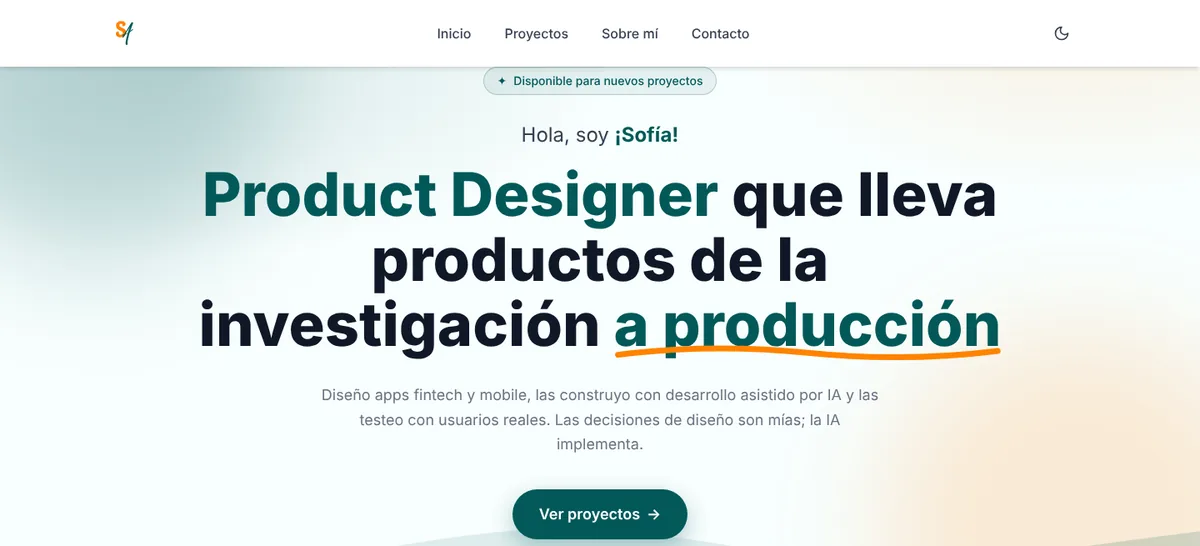
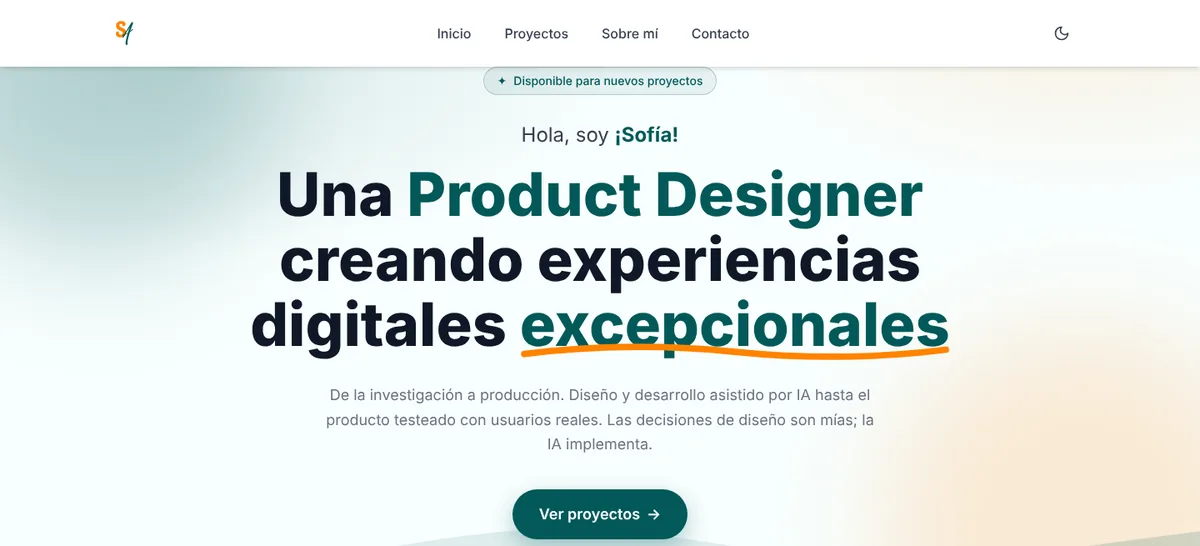
Restaurar titular original del hero y la sección de la cita
- Titular: 'Una Product Designer creando experiencias digitales excepcionales'
  con su descripción original
- Vuelve la sección Exploration (cita) entre Sobre mí y Habilidades
- Miniatura del caso Portfolio regenerada con el hero restaurado

Claude-Session: https://claude.ai/code/session_01Q4JWQmucjosvLvKJoTHqYK

Changed region(s): [[0.1542, 0.3114, 0.8325, 0.685], [0.2775, 0.7161, 0.74, 0.7784], [0.4625, 0.8095, 0.555, 0.8407]]

diff --git a/src/app/components/Hero.tsx b/src/app/components/Hero.tsx
@@ -171,11 +171,12 @@ export function Hero() {
           animate={{ opacity: 1, y: 0 }}
           transition={{ delay: 0.18, duration: 0.9, ease: [0.22, 1, 0.36, 1] }}
         >
+          Una{" "}
           <span className="text-[#025959] dark:text-[#4ecfcf]">Product Designer</span>{" "}
-          que lleva productos de la investigación{" "}
-          {/* "a producción" con subrayado SVG a mano alzada */}
+          creando experiencias digitales{" "}
+          {/* "excepcionales" with SVG hand-drawn underline */}
           <span className="relative inline-block text-[#025959] dark:text-[#FF8300]">
-            a producción
+            excepcionales
             <svg
               className="absolute -bottom-2 left-0 w-full"
               viewBox="0 0 200 12"
@@ -200,9 +201,9 @@ export function Hero() {
           animate={{ opacity: 1, y: 0 }}
           transition={{ delay: 0.26, duration: 0.8, ease: [0.22, 1, 0.36, 1] }}
         >
-          Diseño apps fintech y mobile, las construyo con desarrollo asistido por IA
-          y las testeo con usuarios reales. Las decisiones de diseño son mías; la IA
-          implementa.
+          De la investigación a producción. Diseño y desarrollo asistido por IA
+          hasta el producto testeado con usuarios reales. Las decisiones de
+          diseño son mías; la IA implementa.
         </motion.p>
 
         {/* CTA */}

diff --git a/src/app/components/Exploration.tsx b/src/app/components/Exploration.tsx
@@ -1,0 +1,27 @@
+import { motion } from "motion/react";
+
+export function Exploration() {
+  return (
+    <section className="py-16 md:py-24 bg-gradient-to-br from-[#025959]/5 to-[#FF8300]/5 dark:from-[#025959]/10 dark:to-[#FF8300]/10">
+      <div className="max-w-5xl mx-auto px-6 lg:px-12 text-center">
+        <motion.blockquote
+          initial={{ opacity: 0, scale: 0.9 }}
+          whileInView={{ opacity: 1, scale: 1 }}
+          viewport={{ once: true }}
+          transition={{ duration: 0.8 }}
+          className="relative"
+        >
+          <div aria-hidden="true" className="absolute -top-8 -left-4 text-8xl text-[#025959]/20 dark:text-[#4ecfcf]/30">"</div>
+          <p className="text-3xl md:text-4xl lg:text-5xl text-gray-800 dark:text-gray-100 leading-relaxed relative z-10">
+            Estoy explorando constantemente{" "}
+            <span className="text-[#025959] dark:text-[#FF8300]">nuevas mejores prácticas</span> y{" "}
+            <span className="text-[#025959] dark:text-[#4ecfcf]">flujos de trabajo</span>
+          </p>
+          <div aria-hidden="true" className="absolute -bottom-8 -right-4 text-8xl text-[#025959]/20 dark:text-[#4ecfcf]/30 rotate-180">
+            "
+          </div>
+        </motion.blockquote>
+      </div>
+    </section>
+  );
+}

diff --git a/src/app/App.tsx b/src/app/App.tsx
@@ -6,6 +6,7 @@ import { Navbar } from "./components/Navbar";
 import { Hero } from "./components/Hero";
 import { About } from "./components/About";
 import { Projects } from "./components/Projects";
+import { Exploration } from "./components/Exploration";
 import { Skills } from "./components/Skills";
 import { Feedback } from "./components/Feedback";
 import { Contact } from "./components/Contact";
@@ -67,6 +68,7 @@ function MainPage() {
       <Hero />
       <Projects />
       <About />
+      <Exploration />
       <Skills />
       {/* <Feedback /> — oculta hasta completar contenido */}
       <Contact />
